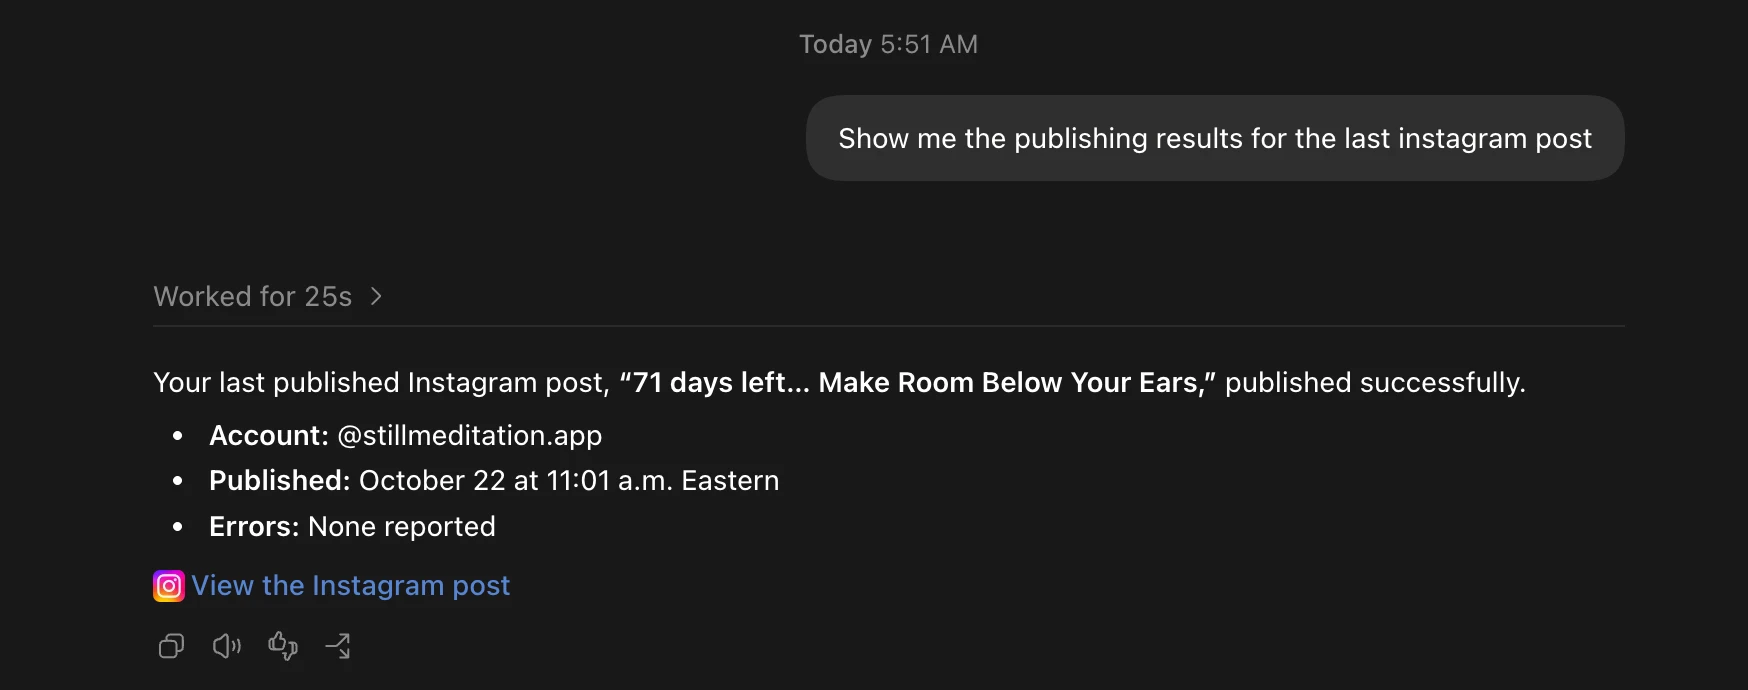
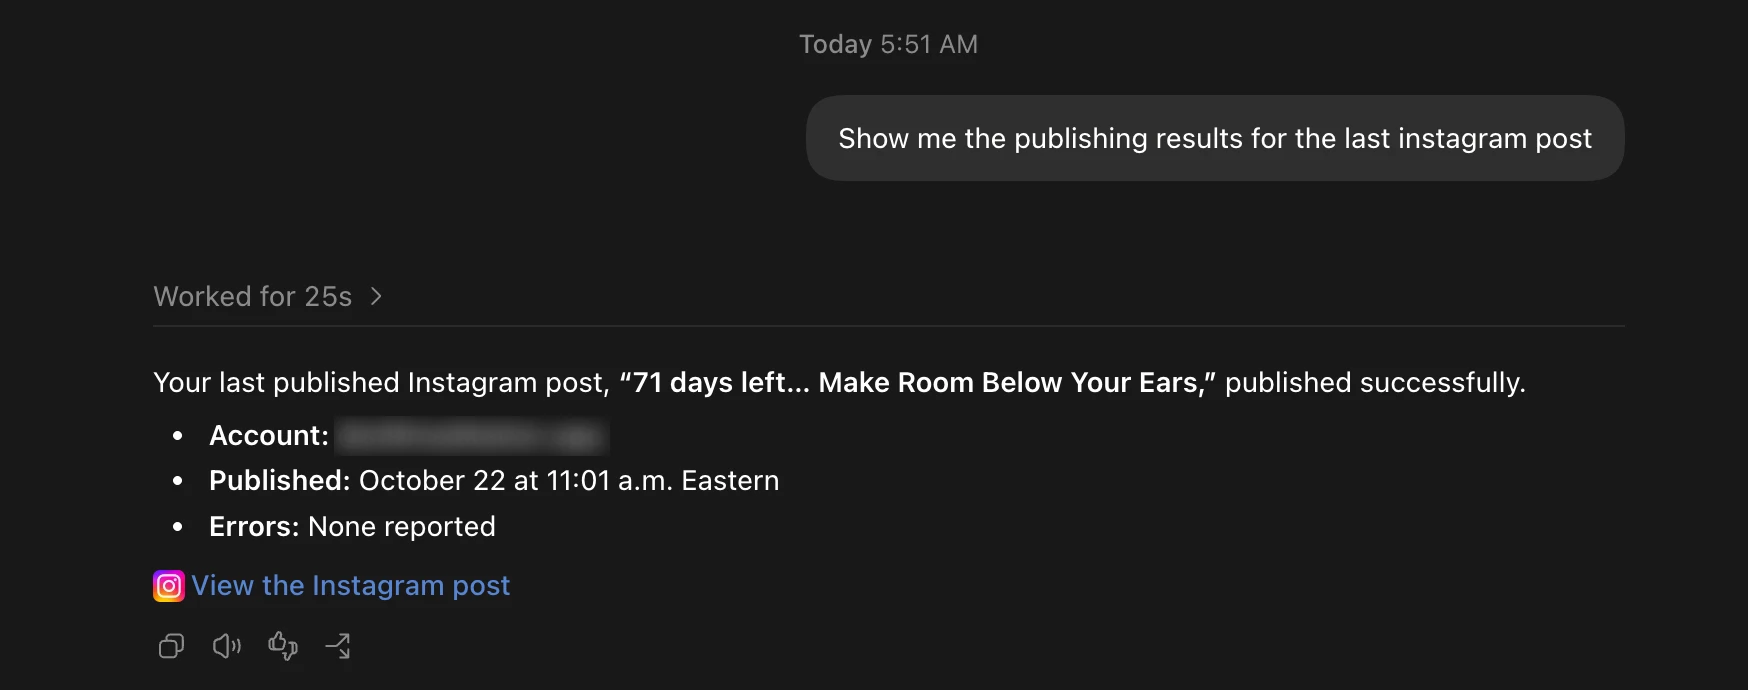
Quickstart screenshots: use the new step 3 image and blur the account handle in step 4

Changed region(s): [[0.1854, 0.6087, 0.3398, 0.6696]]

diff --git a/src/app/docs/quickstart/page.tsx b/src/app/docs/quickstart/page.tsx
@@ -102,9 +102,9 @@ export default function QuickstartPage() {
           <Example>Schedule &ldquo;New video this Friday&rdquo; to my LinkedIn for tomorrow at 9am.</Example>
           <Figure
             src="/docs/quickstart/first-post.webp"
-            width={1598}
-            height={394}
-            alt="A Claude chat confirming it scheduled a post to LinkedIn for tomorrow at 9:00 a.m. Eastern, followed by a request to show the publishing results."
+            width={1644}
+            height={242}
+            alt="A Claude chat message confirming it scheduled the post 'New video this Friday' to LinkedIn for tomorrow, Saturday, October 24, at 9:00 a.m. Eastern."
           >
             Claude confirms the post is scheduled, with the date and time it understood.
           </Figure>
